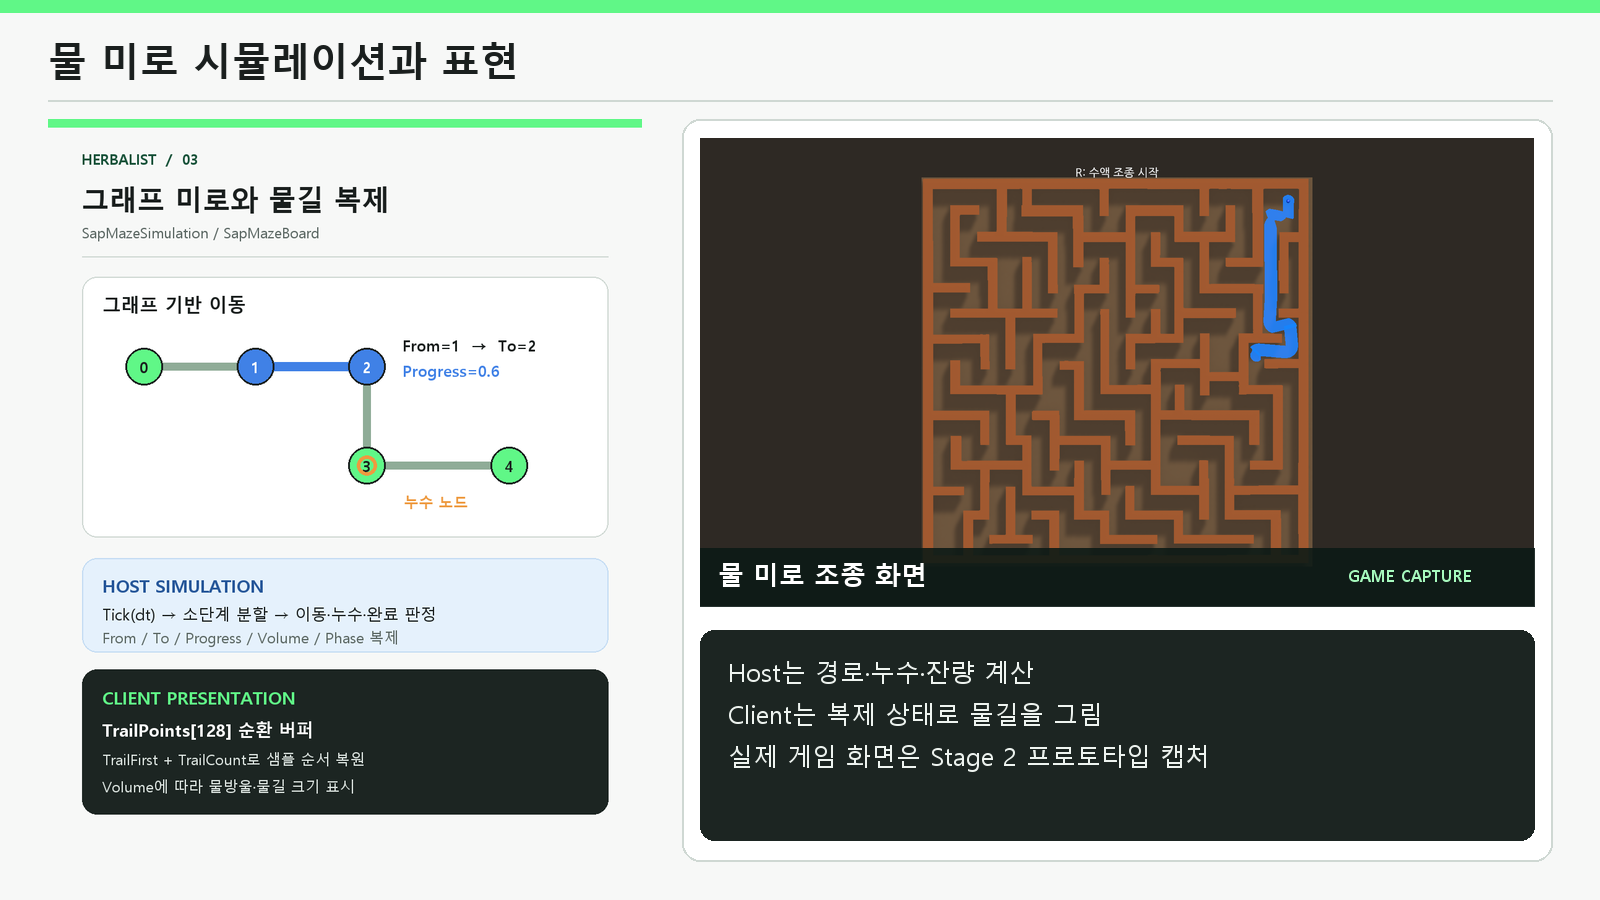
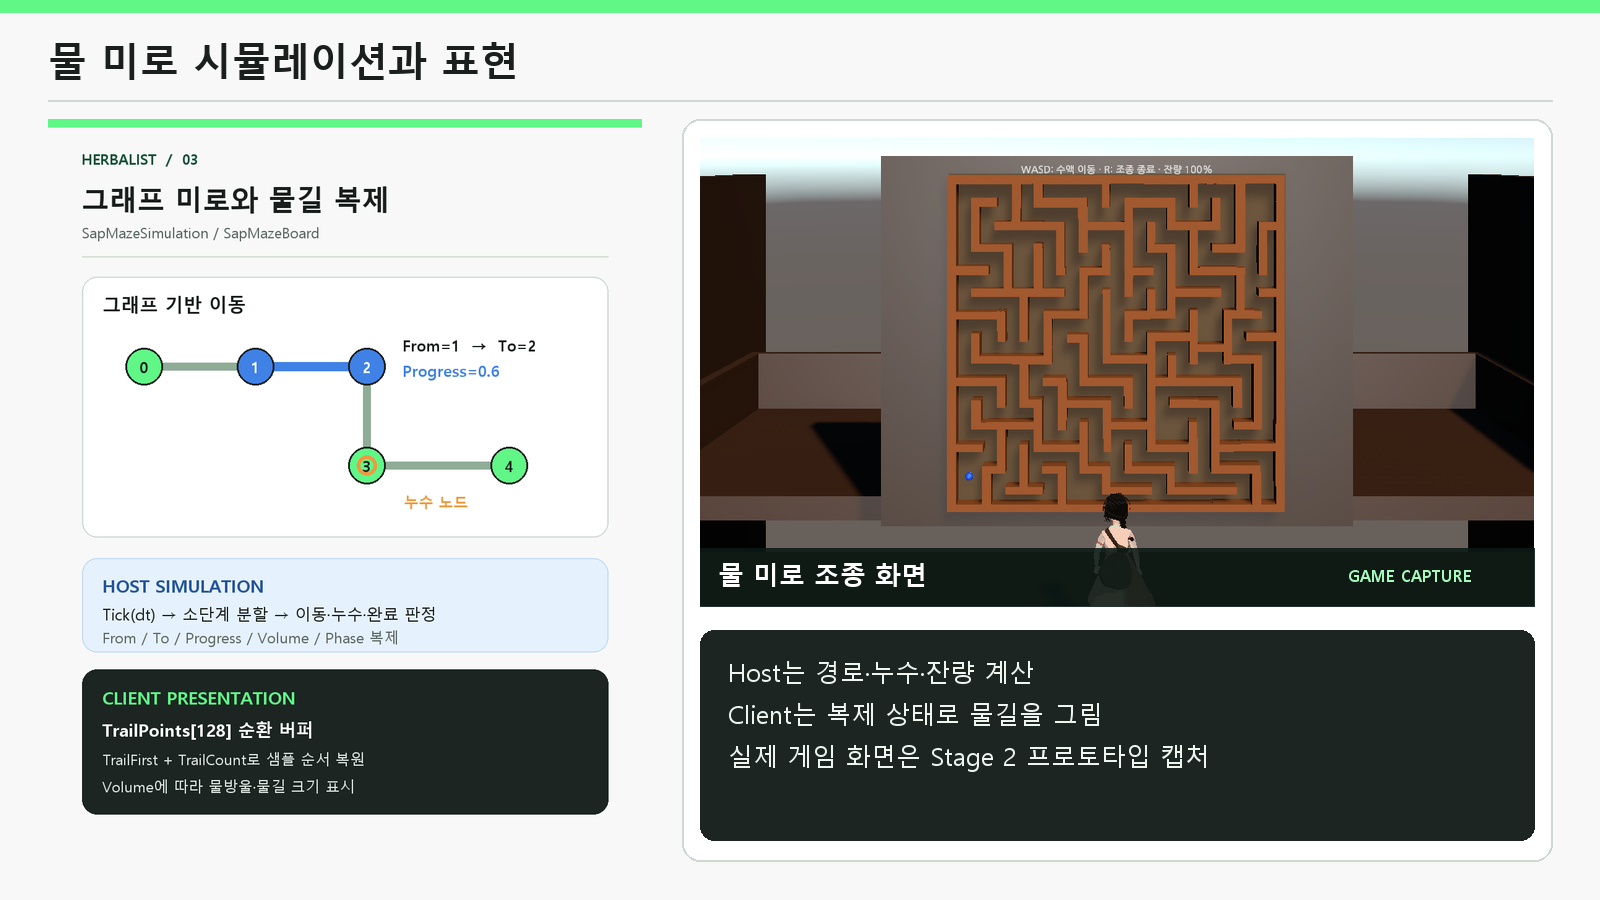
Replace portfolio concept art with live Unity captures

Changed region(s): [[0.4375, 0.1556, 0.9688, 0.6222]]

diff --git a/Portfolio/Herbalist/build_images.py b/Portfolio/Herbalist/build_images.py
@@ -64,22 +64,18 @@ def fit_crop(path, size, focus=(0.5, 0.5)):
 
 
 def hero():
-    a = OUT / "stage01_live_game_full.png"
-    b = ROOT / "Captures/stage2_sap_trail_preview.png"
-    c = OUT / "06_waterfall_concept.png"
+    a = OUT / "live/stage1_forest_terrain_fixed.png"
+    b = OUT / "live/stage2_maze_control_play.png"
     out = Image.new("RGB", (1600, 900), INK)
-    out.paste(fit_crop(a, (1050, 900), (0.52, 0.55)), (0, 0))
-    out.paste(fit_crop(b, (540, 440), (0.51, 0.52)), (1060, 0))
-    out.paste(fit_crop(c, (540, 450), (0.51, 0.42)), (1060, 450))
+    out.paste(fit_crop(a, (1000, 900), (0.50, 0.50)), (0, 0))
+    out.paste(fit_crop(b, (590, 900), (0.50, 0.70)), (1010, 0))
     d = ImageDraw.Draw(out, "RGBA")
-    for box in [(0, 790, 1050, 900), (1060, 351, 1600, 440), (1060, 805, 1600, 900)]:
+    for box in [(0, 790, 1000, 900), (1010, 790, 1600, 900)]:
         d.rectangle(box, fill=(12, 21, 17, 222))
-    d.rectangle((1050, 0, 1060, 900), fill=GREEN)
-    d.rectangle((1060, 440, 1600, 450), fill=GREEN)
+    d.rectangle((1000, 0, 1010, 900), fill=GREEN)
     txt(d, (38, 803), "01  EXTERIOR · 게임 캡처", 35, "white", True)
-    txt(d, (1088, 367), "02  MAZE · 게임 캡처", 28, "white", True)
-    txt(d, (1088, 820), "03  WATERFALL · 연출 이미지", 25, "white", True)
-    out.save(OUT / "01_gameplay_capture_collage.png", optimize=True)
+    txt(d, (1032, 803), "02  MAZE · 게임 캡처", 29, "white", True)
+    out.save(OUT / "00_overview_gameplay.png", optimize=True)
 
 
 def movement():

diff --git a/Portfolio/Herbalist/make_slide_pairs.py b/Portfolio/Herbalist/make_slide_pairs.py
@@ -74,17 +74,7 @@ if __name__ == "__main__":
     make(
         "12_maze_with_gameplay.png", "물 미로 시뮬레이션과 표현",
         "04_maze_simulation.png",
-        [(CAP / "stage2_maze_control_raw.png", "물 미로 조종 화면", "GAME CAPTURE")],
+        [(OUT / "live/stage2_maze_control_crop.png", "물 미로 조종 화면", "GAME CAPTURE")],
         ["Host는 경로·누수·잔량 계산", "Client는 복제 상태로 물길을 그림", "실제 게임 화면은 Stage 2 프로토타입 캡처"],
     )
-    make(
-        "13_transition_with_gameplay.png", "씬 전환 중 상태 보존",
-        "05_stage_transition.png",
-        [
-            (OUT / "stage01_live_game_full.png", "Stage 1 · 숲", "GAME CAPTURE"),
-            (CAP / "stage2_maze_control_raw.png", "Stage 2 · 미로", "GAME CAPTURE"),
-            (OUT / "06_waterfall_concept.png", "Stage 3 · 폭포", "CONCEPT ART"),
-        ],
-        ["Stage 3 이미지는 실제 게임 캡처가 아닌 연출 이미지입니다."],
-    )
-    print("Built four 1600×900 technical page visuals")
+    print("Built three 1600×900 technical page visuals")

diff --git a/Portfolio/Herbalist/README.md b/Portfolio/Herbalist/README.md
@@ -1,24 +1,17 @@
 # HERBALIST 포트폴리오 이미지
 
-16:9 포트폴리오 페이지에 넣을 이미지 세트. **게임 캡처**, **AI 연출 이미지**, **구조 도식**의 출처를 구분한다. 현재 3스테이지는 **폭포**이며 제단 프로토타입 화면은 사용하지 않는다.
+`images/live/`는 2026-10-17 Unity Editor의 **Play 모드 Game View**에서 직접 촬영한 원본이다. 캐릭터, UI, 미로, 숲은 게임이 렌더링한 화면이며 생성 이미지가 아니다.
 
-| 파일 | 용도 | 출처 |
-| --- | --- | --- |
-| `images/00_overview_abilities_concept.png` | 개요: 두 캐릭터가 각각 나뭇잎·물 능력을 사용하는 장면 | 2026-10-17 Stage 1 게임 캡처를 참조해 이미지 생성 도구로 만든 **연출 이미지**. 실제 게임 화면이 아님 |
-| `images/01_gameplay_capture_collage.png` | 개요: 세 스테이지 이미지 | Stage 1·2 실제 게임 캡처 + Stage 3 폭포 연출 이미지. 오른쪽 아래에 구분 표기 |
-| `images/06_waterfall_concept.png` | Stage 3 폭포 참고 이미지 | Stage 1 캡처를 참조해 이미지 생성 도구로 만든 **연출 이미지**. 실제 Stage 3 화면이 아님 |
-| `images/10_movement_with_gameplay.png` | 이동·입력 예측 기술 페이지 | 구조 도식 + 2026-10-05 두 플레이어 게임 캡처 |
-| `images/11_leaf_with_gameplay.png` | 나뭇잎 능력 기술 페이지 | 구조 도식 + 실제 나뭇잎 HUD 게임 캡처 |
-| `images/12_maze_with_gameplay.png` | 물 미로 기술 페이지 | 구조 도식 + 2026-10-05 Stage 2 프로토타입 게임 캡처 |
-| `images/13_transition_with_gameplay.png` | 씬 전환 기술 페이지 | 구조 도식 + Stage 1·2 실제 게임 캡처 + Stage 3 폭포 연출 이미지 |
+| 파일 | 내용 |
+| --- | --- |
+| `images/live/stage1_forest_terrain_fixed.png` | Stage 1 숲 입구의 실제 플레이 화면 |
+| `images/live/stage1_leaf_unlocked_play.png` | Stage 1 로컬 분할 화면과 나뭇잎 슬롯 HUD. 능력 해금 테스트 화면이며 투척 장면은 아님 |
+| `images/live/stage2_maze_control_play.png` | Stage 2 수액 미로 조종 중 실제 플레이 화면. 오프라인 테스트 훅으로 능력을 해금하고 조종을 시작함 |
+| `images/live/stage2_maze_control_crop.png` | 위 Game View 캡처에서 미로 영역만 잘라낸 이미지 |
+| `images/00_overview_gameplay.png` | 위 Stage 1·2 원본 두 장을 자른 포트폴리오용 합성. 새 장면을 그리거나 생성하지 않음 |
 
-`images/captures/`에는 사용한 게임 캡처 원본을 변형 없이 복사했다. `images/stage01_live_game_full.png`도 2026-10-17 Unity Play 모드에서 촬영한 원본이다. 이 Stage 1 캡처는 최신 모델링 브랜치를 합치기 **전** 화면이므로 현재 배치의 최종 모습으로 설명하지 않는다. Unity 에디터 또는 실행 빌드가 현재 연결되지 않아 이번 작업에서 새 라이브 캡처는 촬영하지 못했다.
+기술 페이지 `10`~`12`는 구조 도식과 게임 캡처를 배치한 이미지다. `10`·`11`의 실제 화면 부분은 `images/captures/`에 보관한 기존 캡처를, `12`는 이번에 촬영한 `images/live/`를 사용한다. 구조 도식 원본은 `02_client_prediction.png`~`05_stage_transition.png`이다. 씬 전환 페이지는 전환 전후의 새 플레이 캡처가 없어 합성하지 않았다.
 
-구조 도식의 원본은 `02_client_prediction.png`부터 `05_stage_transition.png`까지다. `build_images.py`로 도식과 개요 콜라주를, `make_slide_pairs.py`로 도식과 게임 캡처를 결합한 16:9 기술 페이지를 다시 만든다. 두 스크립트는 Python Pillow와 Windows 맑은 고딕을 사용한다.
+Stage 3는 **폭포**로 기획이 확정됐지만 현재 저장소에 플레이 가능한 폭포 씬이 없어 화면을 넣지 않았다. 개요에서 요청한 **두 캐릭터가 동시에 각자 능력을 사용하는 게임 장면**도 이번 오프라인 Play 캡처로는 확보하지 못했다. 해당 장면은 Host/Client 2인 세션에서 촬영해야 한다. 현재 개요 이미지는 Stage 1·2의 실제 화면만 보여준다.
 
-이미지 생성 도구에 준 핵심 요청은 다음과 같다.
-
-- 개요: 실제 Stage 1 캡처의 두 캐릭터·숲 스타일을 참고해, 한 캐릭터는 초록 나뭇잎을 투척·설치하고 다른 캐릭터는 푸른 물줄기를 기믹에 주입하는 한 장면. UI와 글자는 제외.
-- 폭포: 같은 캐릭터와 게임 스타일을 참고해, 두 사람이 폭포 양옆 발판에서 협동하는 3스테이지 참고 장면. 제단·전투·UI·글자는 제외.
-
-최종 PDF에 넣을 때 연출 이미지에는 **‘연출 이미지’ 또는 ‘Concept Art’** 캡션을 유지한다. 실제 캡처로 대체할 때는 해당 캡션과 입력 경로를 함께 갱신한다.
+`build_images.py`는 게임 캡처 개요와 구조 도식을, `make_slide_pairs.py`는 기술 페이지용 배치를 만든다. 두 스크립트는 Pillow와 Windows 맑은 고딕을 사용한다.
